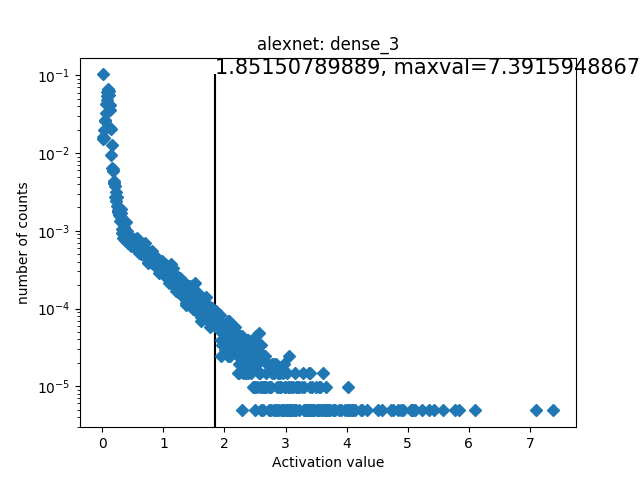
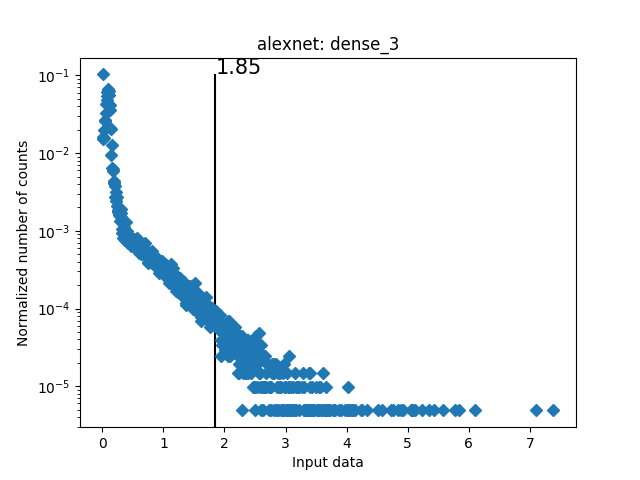
modify label(x,y)

diff --git a/alexnet/get_image_by_npy_no_T.py b/alexnet/get_image_by_npy_no_T.py
@@ -8,7 +8,7 @@ from tqdm import tqdm
 import json
 
 netname = 'alexnet'
-bin_num = 1024  # 2048
+bin_num = 1024   # 2048
 MIN_BINS = 128   # 128
 
 
@@ -143,34 +143,18 @@ for filename in os.listdir("./layerdata/"):
         data = data.flatten()
         data = np.abs(data)
 
-        # x, y = np.unique(data, return_counts=True)
-
         print("\tgenerate histogram data")
         x, y = get_histogram(data, bin_num)
-        print("\tget threshold")
-        threshold_at_num = threshold_distribution(y, MIN_BINS)
-        threshold = x[threshold_at_num]
-
         y = y / float(np.sum(y))
 
         print("\tdraw figure...")
-        # plt.yscale('symlog', linthreshx=0.0000002)
         plt.title('{0}: {1}'.format(netname, layer_name))
         plt.xlabel('Input data')
         plt.ylabel('Normalized number of counts')
-        # plt.ylabel('number of counts')
         
         y_tick = [10**i for i in range(-9, 1)]
         plt.yticks(y_tick)
         
-        plt.vlines(threshold, 0, np.max(y))
-        plt.text(threshold, np.max(y), "%.2f" % (threshold), fontsize=15)
-        # plt.scatter(x, y, marker='o')
         plt.semilogy(x, y, '.', marker='D')
         plt.savefig("./layerdata/" + layer_name + ".png")
-        print("\t./layerdata/" + layer_name + '.png saved')
-        plt.cla()
-        
-        scale = 1.0 * MAX_INT / threshold
-        d[layer_name] = scale
-save_dict('./layerdata/result.json', d)
+	plt.cla()
